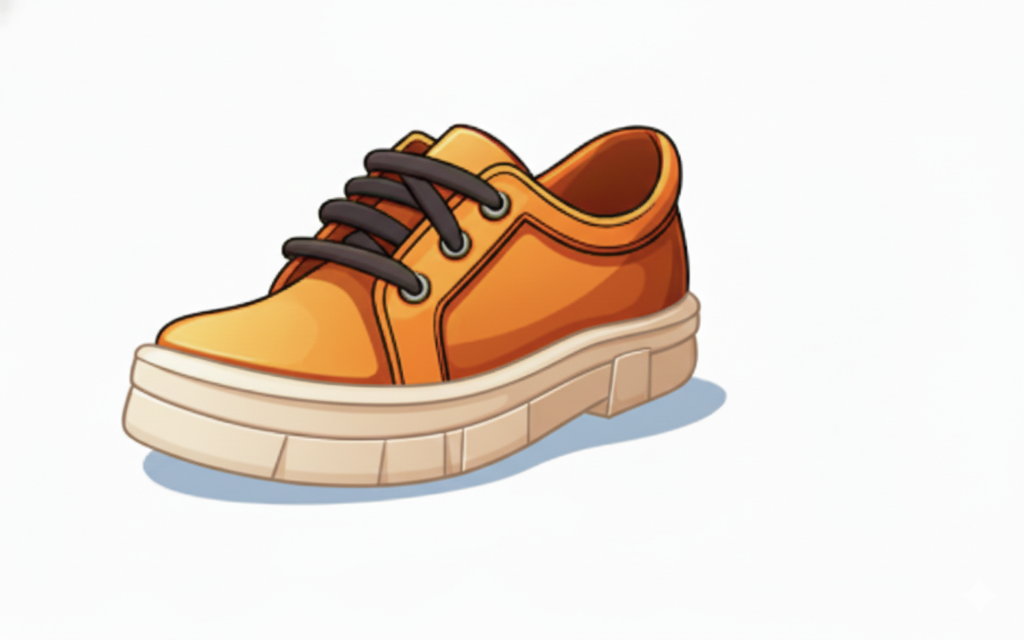
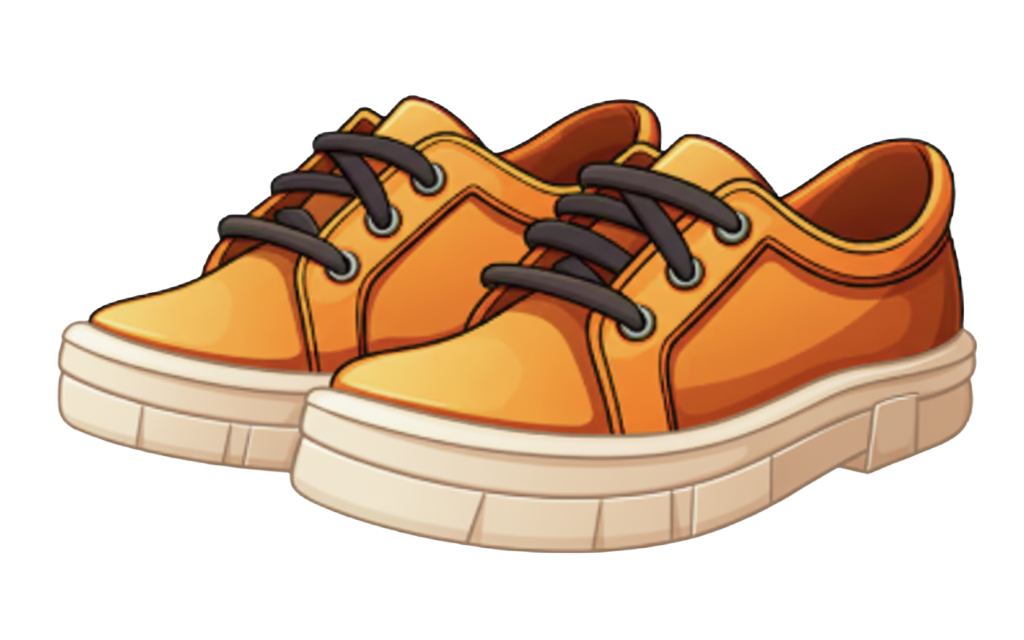
fix(ui): use dedicated images for single/double zapatero and separate from trophy

diff --git a/components/game/ScoreBoard.tsx b/components/game/ScoreBoard.tsx
@@ -329,7 +329,7 @@ export default function ScoreBoard({
 
                             return (
                                 <>
-                                    <div className="flex justify-center items-end gap-6 mb-8 relative h-40">
+                                    <div className="flex justify-center items-end gap-12 mb-8 relative h-48">
                                         {/* SINGLE ZAPATO */}
                                         {zapateroType === 'single' && (
                                             <motion.div
@@ -339,47 +339,39 @@ export default function ScoreBoard({
                                             >
                                                 {/* eslint-disable-next-line @next/next/no-img-element */}
                                                 <img
-                                                    src="/zapato_unico.png"
+                                                    src="/zapato_sencillo.png"
                                                     alt="Zapato Sencillo"
                                                     className="w-48 h-auto drop-shadow-[0_0_20px_rgba(255,215,0,0.8)]"
                                                 />
                                             </motion.div>
                                         )}
 
-                                        {/* DOUBLE ZAPATO (Composed of two single transparent shoes) */}
+                                        {/* DOUBLE ZAPATO - Uses the dedicated double shoe image */}
                                         {zapateroType === 'double' && (
                                             <motion.div
-                                                className="relative w-64 h-40 flex items-center justify-center mt-4"
-                                                animate={{ y: [0, -15, 0] }}
+                                                className="flex flex-col items-center"
+                                                animate={{ y: [0, -10, 0] }}
                                                 transition={{ duration: 1.5, repeat: Infinity, delay: 0.2 }}
                                             >
-                                                {/* Shoe 1 */}
+                                                {/* eslint-disable-next-line @next/next/no-img-element */}
                                                 <img
-                                                    src="/zapato_unico.png"
-                                                    alt="Zapato Izq"
-                                                    className="absolute left-0 top-0 w-48 h-auto drop-shadow-[0_0_20px_rgba(255,215,0,0.8)] -rotate-12 z-0"
-                                                />
-                                                {/* Shoe 2 */}
-                                                <img
-                                                    src="/zapato_unico.png"
-                                                    alt="Zapato Der"
-                                                    className="absolute right-0 top-4 w-48 h-auto drop-shadow-[0_0_20px_rgba(255,215,0,0.8)] rotate-12 z-10 transform scale-x-[-1]"
+                                                    src="/zapato_doble.png"
+                                                    alt="Zapato Doble"
+                                                    className="w-64 h-auto drop-shadow-[0_0_20px_rgba(255,215,0,0.8)]"
                                                 />
                                             </motion.div>
                                         )}
 
-                                        {/* TROPHY CENTER */}
-                                        {zapateroType === 'none' && (
-                                            <motion.div
-                                                animate={{
-                                                    y: [0, -10, 0],
-                                                    rotate: [0, 5, -5, 0]
-                                                }}
-                                                transition={{ duration: 4, repeat: Infinity, ease: "easeInOut" }}
-                                            >
-                                                <Trophy className="text-[#FFD700] drop-shadow-[0_0_25px_rgba(255,215,0,0.5)]" size={120} />
-                                            </motion.div>
-                                        )}
+                                        {/* TROPHY CENTER - Always visible but separated */}
+                                        <motion.div
+                                            animate={{
+                                                y: [0, -10, 0],
+                                                rotate: [0, 5, -5, 0]
+                                            }}
+                                            transition={{ duration: 4, repeat: Infinity, ease: "easeInOut" }}
+                                        >
+                                            <Trophy className="text-[#FFD700] drop-shadow-[0_0_25px_rgba(255,215,0,0.5)]" size={120} />
+                                        </motion.div>
                                     </div>
 
                                     <h2 className={`text-5xl font-black mb-8 tracking-tighter italic ${zapateroType !== 'none' ? "text-[#FFD700] drop-shadow-[0_0_15px_rgba(255,215,0,0.5)]" : "text-white"}`}>
